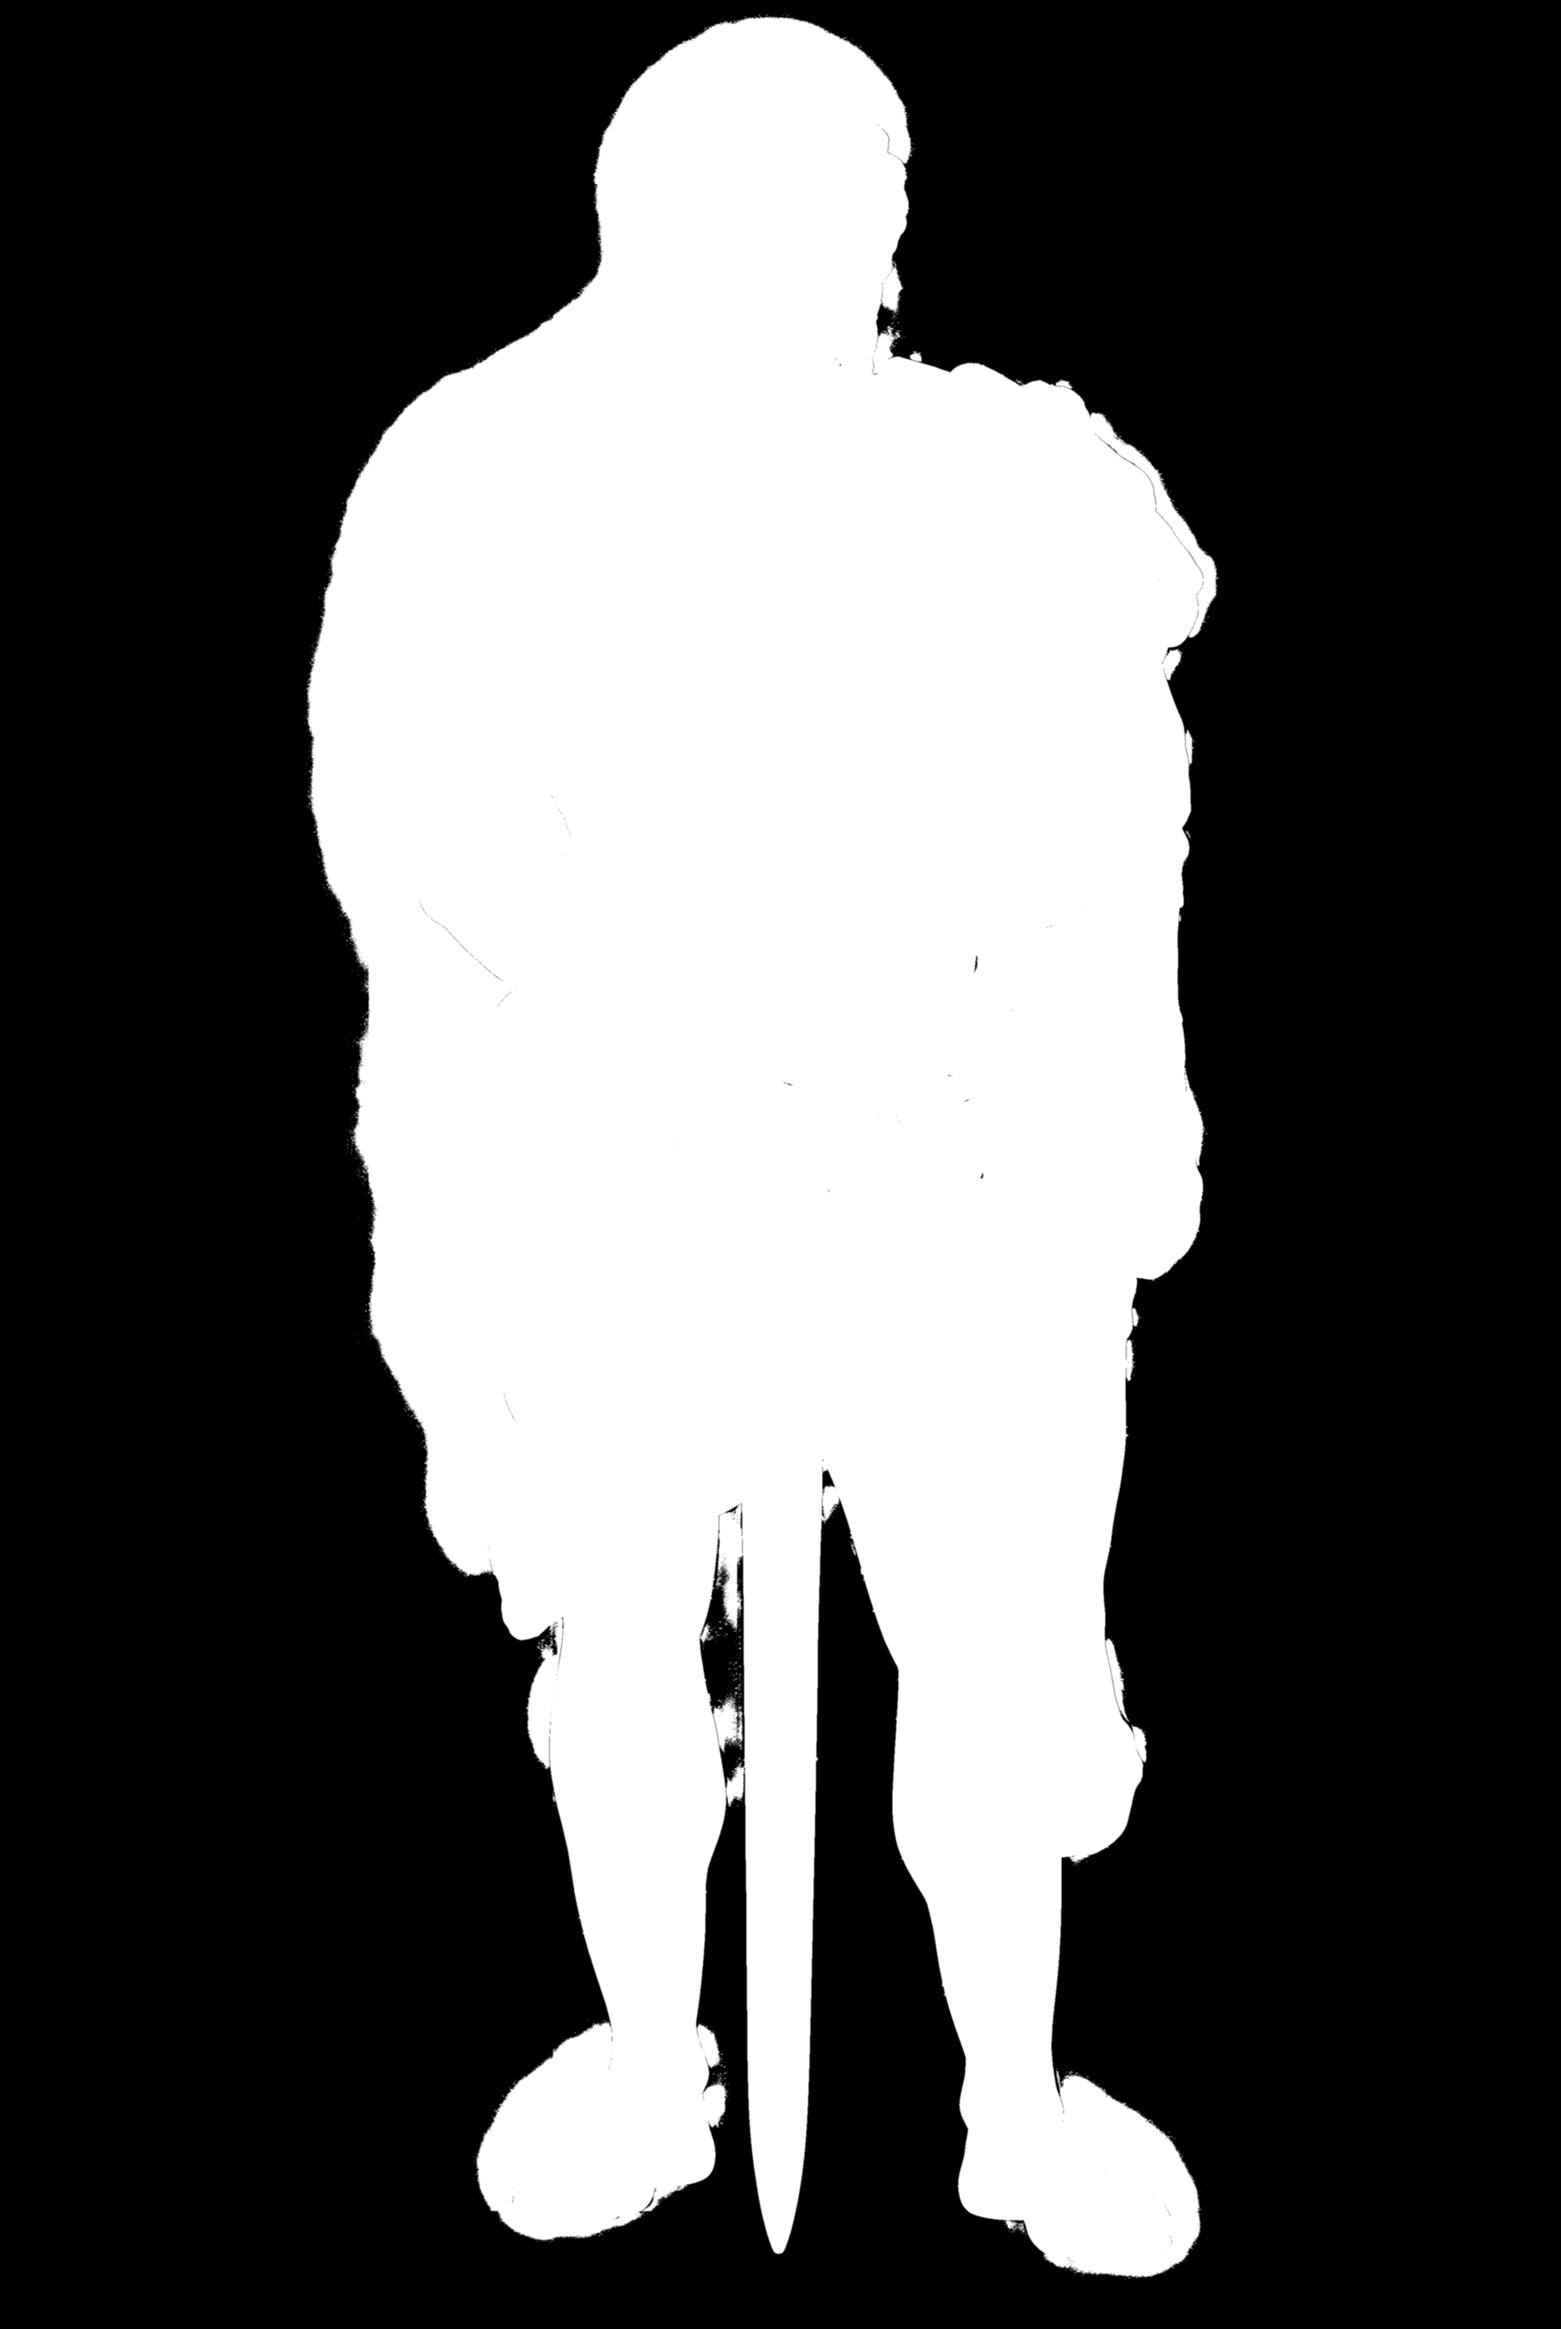
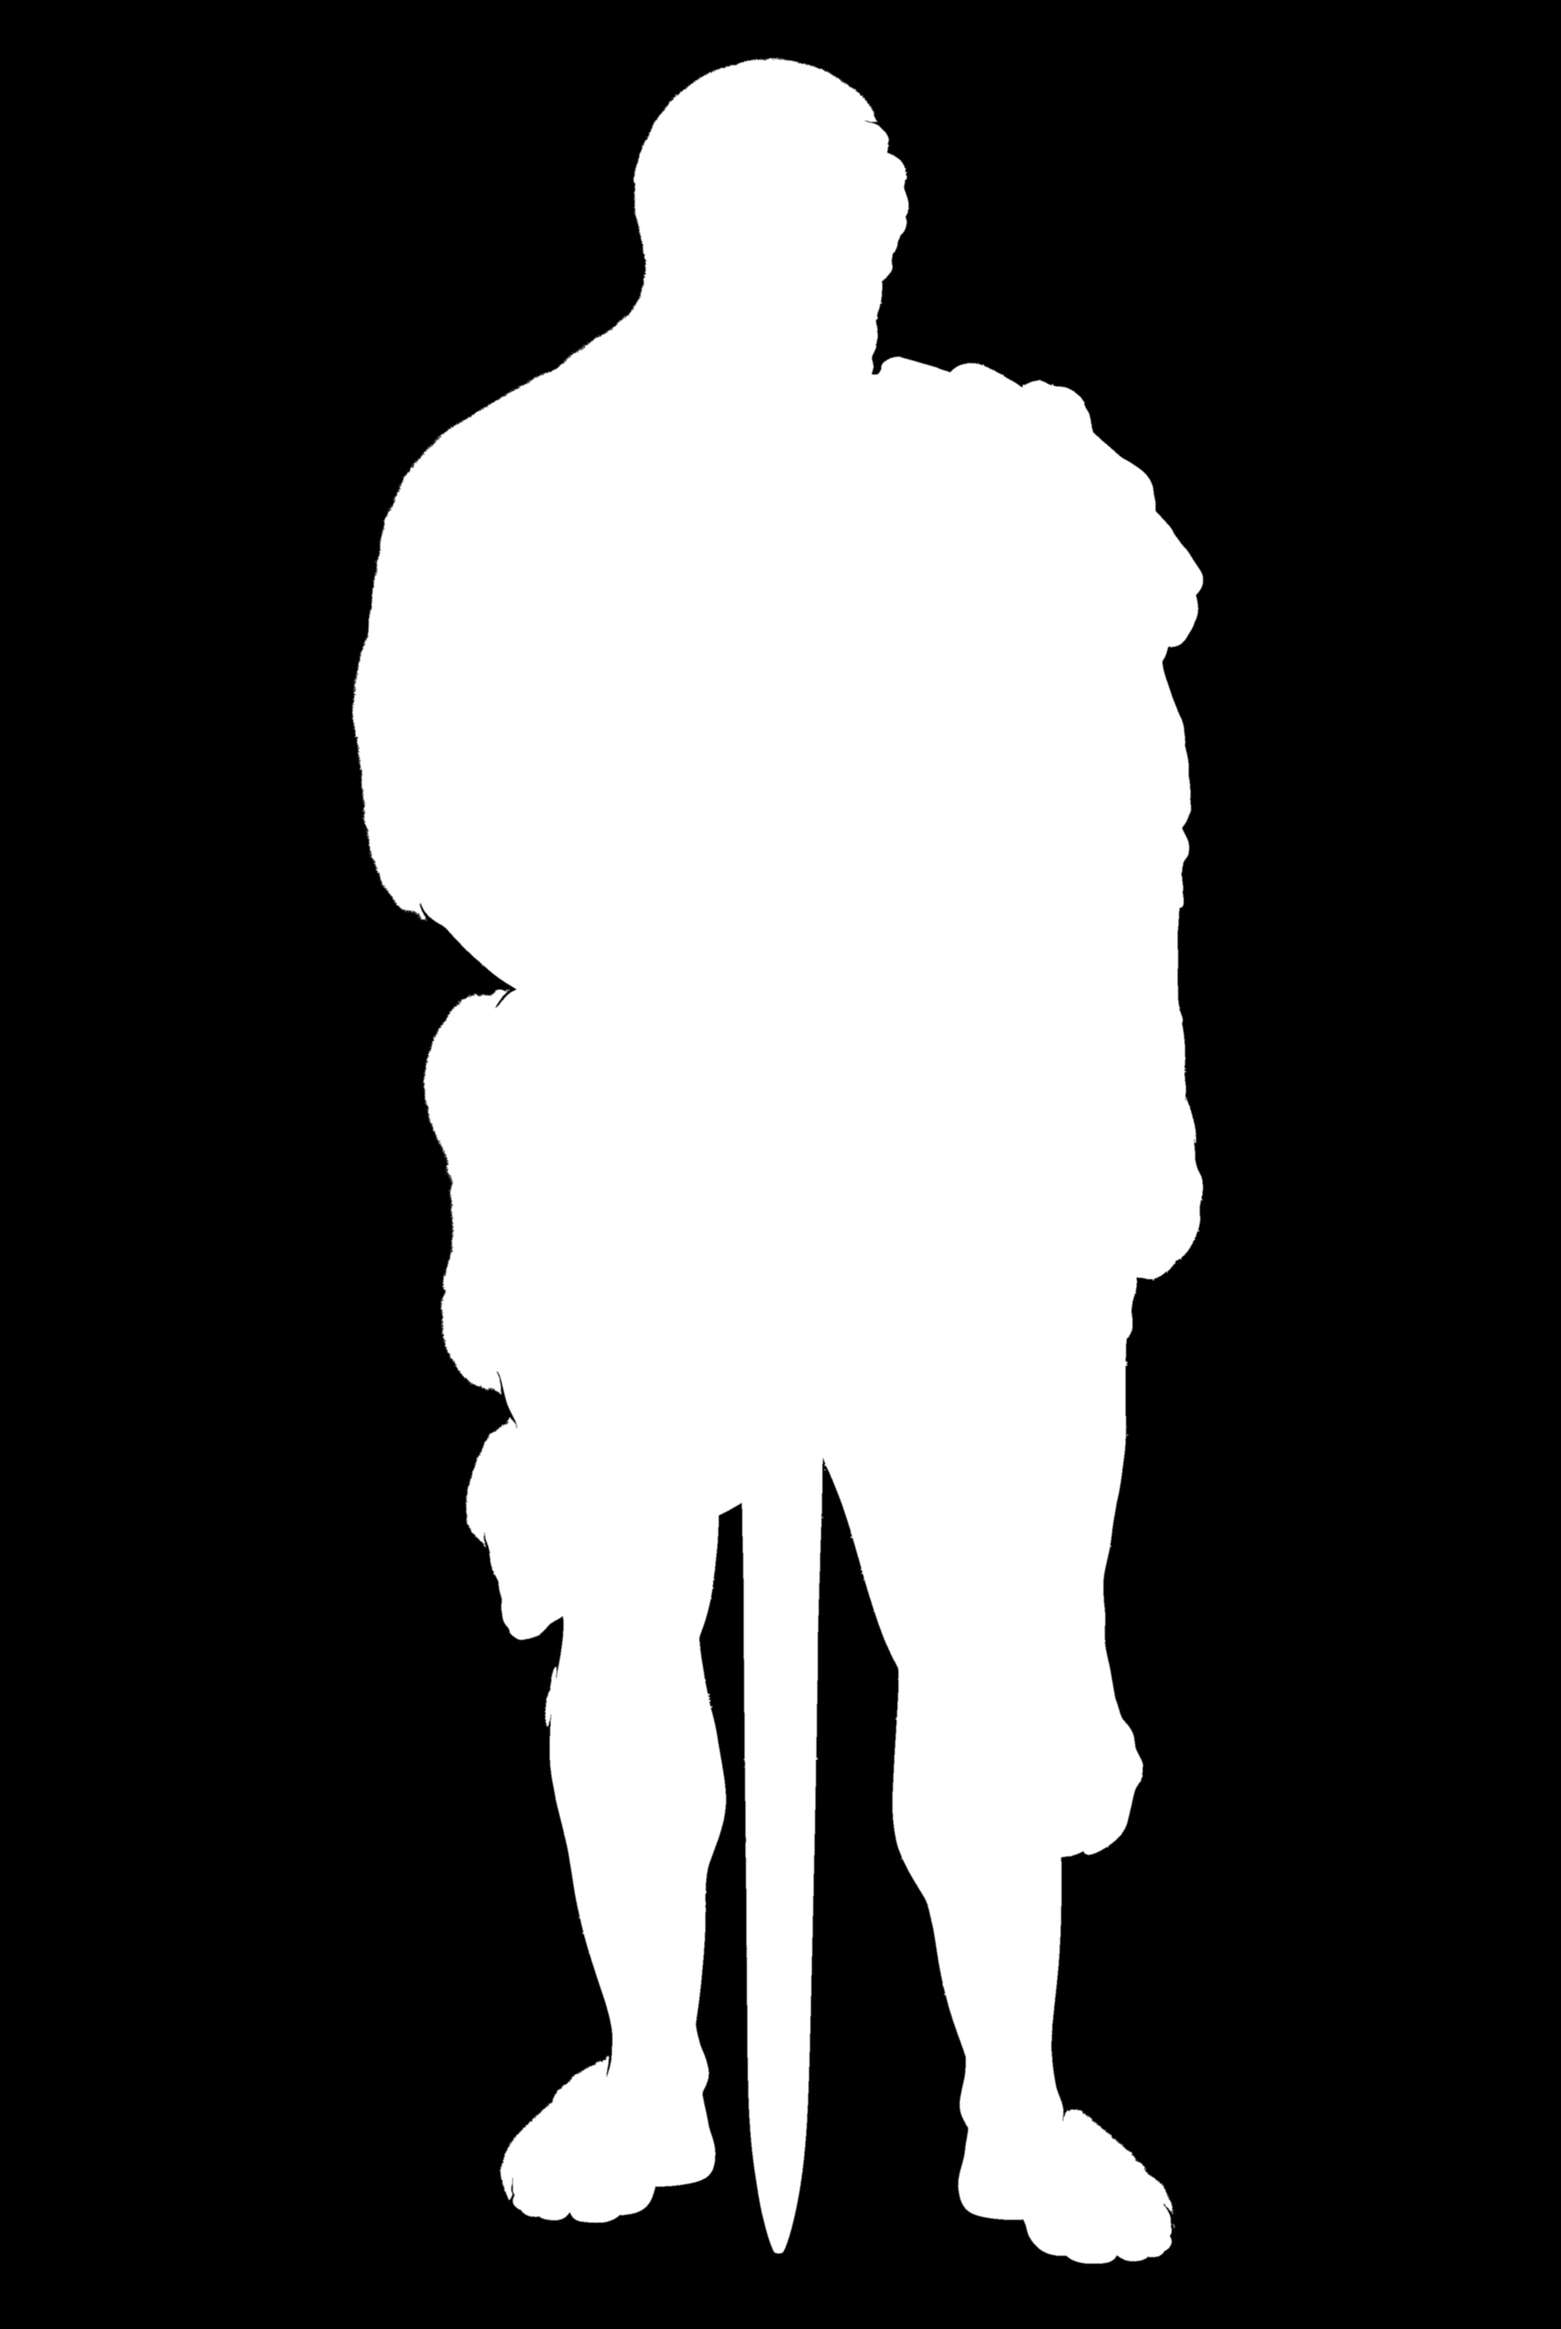
fix: cursor layering over modal, smooth marble hercules without dither dots, solarquack r and q wing clearance

diff --git a/src/components/sections/Hero.tsx b/src/components/sections/Hero.tsx
@@ -204,28 +204,57 @@ export function Hero({ stats = { repos: 18, stars: 42, projects: 6, commits: 348
         }}
       />
 
-      {/* Layer 3: Giant Name "solarquack" sitting behind statue, telemetry and specs */}
+      {/* Layer 3: Giant Name "solarquack" flanking Hercules on left (solar) and right (quack) */}
       <div
         aria-label={siteConfig.brand}
-        className="absolute top-1/2 left-0 right-0 -translate-y-1/2 z-20 flex justify-center items-center pointer-events-none px-4 select-none"
+        className="absolute top-1/2 left-0 right-0 -translate-y-1/2 z-20 flex justify-center items-center pointer-events-none px-4 sm:px-8 select-none"
       >
-        <h1 className="font-display font-light text-bone/30 tracking-tightest leading-none text-[clamp(4.2rem,16vw,19rem)] flex justify-between w-full max-w-7xl">
-          {brandChars.map((char, idx) => (
-            <span
-              key={idx}
-              ref={(el) => {
-                letterRefs.current[idx] = el;
-              }}
-              className="inline-block transition-transform duration-75 will-change-transform"
-              style={{
-                fontVariationSettings:
-                  "'wght' 260, 'SOFT' 100, 'opsz' 144, 'WONK' 1",
-              }}
-              aria-hidden="true"
-            >
-              {char}
-            </span>
-          ))}
+        <h1 className="font-display font-light text-bone/35 tracking-tightest leading-none text-[clamp(3.8rem,14vw,17.5rem)] flex items-center justify-between w-full max-w-7xl">
+          {/* Left Wing: "solar" (s, o, l, a, r) */}
+          <div className="flex-1 flex justify-between pr-2 sm:pr-4 md:pr-6">
+            {brandChars.slice(0, 5).map((char, idx) => (
+              <span
+                key={idx}
+                ref={(el) => {
+                  letterRefs.current[idx] = el;
+                }}
+                className="inline-block transition-transform duration-75 will-change-transform"
+                style={{
+                  fontVariationSettings:
+                    "'wght' 260, 'SOFT' 100, 'opsz' 144, 'WONK' 1",
+                }}
+                aria-hidden="true"
+              >
+                {char}
+              </span>
+            ))}
+          </div>
+
+          {/* Central Architectural Gap for Hercules statue so 'r' and 'q' are never cut */}
+          <div className="w-16 sm:w-28 md:w-44 lg:w-60 shrink-0 pointer-events-none" aria-hidden="true" />
+
+          {/* Right Wing: "quack" (q, u, a, c, k) */}
+          <div className="flex-1 flex justify-between pl-2 sm:pl-4 md:pl-6">
+            {brandChars.slice(5).map((char, localIdx) => {
+              const idx = localIdx + 5;
+              return (
+                <span
+                  key={idx}
+                  ref={(el) => {
+                    letterRefs.current[idx] = el;
+                  }}
+                  className="inline-block transition-transform duration-75 will-change-transform"
+                  style={{
+                    fontVariationSettings:
+                      "'wght' 260, 'SOFT' 100, 'opsz' 144, 'WONK' 1",
+                  }}
+                  aria-hidden="true"
+                >
+                  {char}
+                </span>
+              );
+            })}
+          </div>
         </h1>
       </div>
 

diff --git a/src/components/ui/Cursor.tsx b/src/components/ui/Cursor.tsx
@@ -155,14 +155,14 @@ export function Cursor() {
       <div
         ref={dotRef}
         aria-hidden="true"
-        className="pointer-events-none fixed top-0 left-0 z-[99999] -translate-x-1/2 -translate-y-1/2 w-2 h-2 rounded-full bg-bone mix-blend-difference"
+        className="pointer-events-none fixed top-0 left-0 z-[9999999] -translate-x-1/2 -translate-y-1/2 w-2 h-2 rounded-full bg-bone mix-blend-difference"
       />
 
       {/* 44px Reticle Ring with 4 tick marks */}
       <div
         ref={ringRef}
         aria-hidden="true"
-        className="pointer-events-none fixed top-0 left-0 z-[99998] -translate-x-1/2 -translate-y-1/2 mix-blend-difference flex items-center justify-center transition-[width,height,background-color,border-color] duration-150 ease-out"
+        className="pointer-events-none fixed top-0 left-0 z-[9999998] -translate-x-1/2 -translate-y-1/2 mix-blend-difference flex items-center justify-center transition-[width,height,background-color,border-color] duration-150 ease-out"
         style={{
           width: cursorState.isHover ? 54 : cursorState.isText ? 2 : 44,
           height: cursorState.isHover ? 54 : cursorState.isText ? 22 : 44,
@@ -194,14 +194,14 @@ export function Cursor() {
       <div
         ref={pulseRef}
         aria-hidden="true"
-        className="pointer-events-none fixed top-0 left-0 z-[99997] -translate-x-1/2 -translate-y-1/2 w-10 h-10 rounded-full border border-sun opacity-0"
+        className="pointer-events-none fixed top-0 left-0 z-[9999997] -translate-x-1/2 -translate-y-1/2 w-10 h-10 rounded-full border border-sun opacity-0"
       />
 
       {/* Click Slash Line Segment */}
       <div
         ref={slashRef}
         aria-hidden="true"
-        className="pointer-events-none fixed top-0 left-0 z-[99997] -translate-x-1/2 -translate-y-1/2 w-8 h-[1.5px] bg-sun opacity-0 origin-center"
+        className="pointer-events-none fixed top-0 left-0 z-[9999997] -translate-x-1/2 -translate-y-1/2 w-8 h-[1.5px] bg-sun opacity-0 origin-center"
       />
     </>
   );

diff --git a/src/components/three/shaders/heroShaders.ts b/src/components/three/shaders/heroShaders.ts
@@ -79,23 +79,21 @@ void main() {
   float torchDist = length((displacedUv - uTorch) * aspect);
   float torch = smoothstep(uTorchRadius, 0.0, torchDist) * uTorchStrength;
 
-  // 7. Ordered Bayer Dither threshold - deepened for richer, darker sculptural shadows
-  float darkLum = pow(lum, 1.35) * 0.82;
-  float threshold = bayer8(gl_FragCoord.xy);
-  float dithered = step(threshold, darkLum + glintBoost * 0.45);
+  // 7. Smooth continuous tone marble (no noisy dither dots)
+  // Base statue: deep, moody, dark chiaroscuro marble
+  vec3 darkMarble = colorSample.rgb * 0.72;
+  darkMarble = pow(darkMarble, vec3(1.18)) * 0.90;
+  darkMarble += uBone * glintBoost * 0.45;
 
-  // Outside torch: rich dark marble stone in shadows, bone highlights
-  vec3 ditherColor = mix(vec3(0.04, 0.038, 0.034), uBone * 0.52, dithered);
-
-  // Inside torch: deep contrasted marble continuous tone with subtle rim
-  vec3 litContinuous = colorSample.rgb * 0.88 + uBone * glintBoost * 0.35;
+  // Inside torch: smoothly reveals full continuous marble tone with rim lighting
+  vec3 litMarble = colorSample.rgb * 1.05 + uBone * glintBoost * 0.35;
   vec2 torchDir = normalize(displacedUv - uTorch + vec2(0.0001));
   float rim = max(0.0, dot(vec2(0.0, 1.0), torchDir)) * 0.16 * torch;
-  litContinuous += uBone * rim;
+  litMarble += uBone * rim;
 
-  // Final blend: solid statue silhouette blocks background layers cleanly
-  vec3 finalColor = mix(ditherColor, litContinuous, torch);
-  float finalAlpha = alpha * 0.96;
+  // Final blend between dark chiaroscuro marble and torchlight
+  vec3 finalColor = mix(darkMarble, litMarble, torch);
+  float finalAlpha = alpha;
 
   if (finalAlpha < 0.02) {
     discard;

diff --git a/src/components/project/Lightbox.tsx b/src/components/project/Lightbox.tsx
@@ -36,18 +36,19 @@ export function Lightbox({ project, onClose, onNext, onPrev }: LightboxProps) {
       role="dialog"
       aria-modal="true"
       aria-label={`${project.title} Lightbox`}
-      className="fixed inset-0 z-[100000] flex items-center justify-center p-4 sm:p-8"
+      className="fixed inset-0 z-[80000] flex items-center justify-center p-4 sm:p-8"
     >
       {/* Backdrop */}
       <div
         onClick={onClose}
-        className="fixed inset-0 bg-bg/85 backdrop-blur-md animate-in fade-in duration-200"
+        data-cursor="CLOSE"
+        className="fixed inset-0 bg-bg/85 backdrop-blur-md animate-in fade-in duration-200 cursor-pointer"
       />
 
       {/* Modal Card */}
       <div
         ref={modalRef}
-        className="relative w-full max-w-4xl border border-bone/60 bg-surface shadow-2xl overflow-hidden animate-in zoom-in-95 duration-200 z-10 flex flex-col"
+        className="relative w-full max-w-4xl border border-bone/60 bg-surface shadow-2xl overflow-hidden animate-in zoom-in-95 duration-200 z-10 flex flex-col cursor-default"
       >
         {/* Top Bar */}
         <div className="flex items-center justify-between border-b border-rule px-6 py-3 bg-bg/50">
